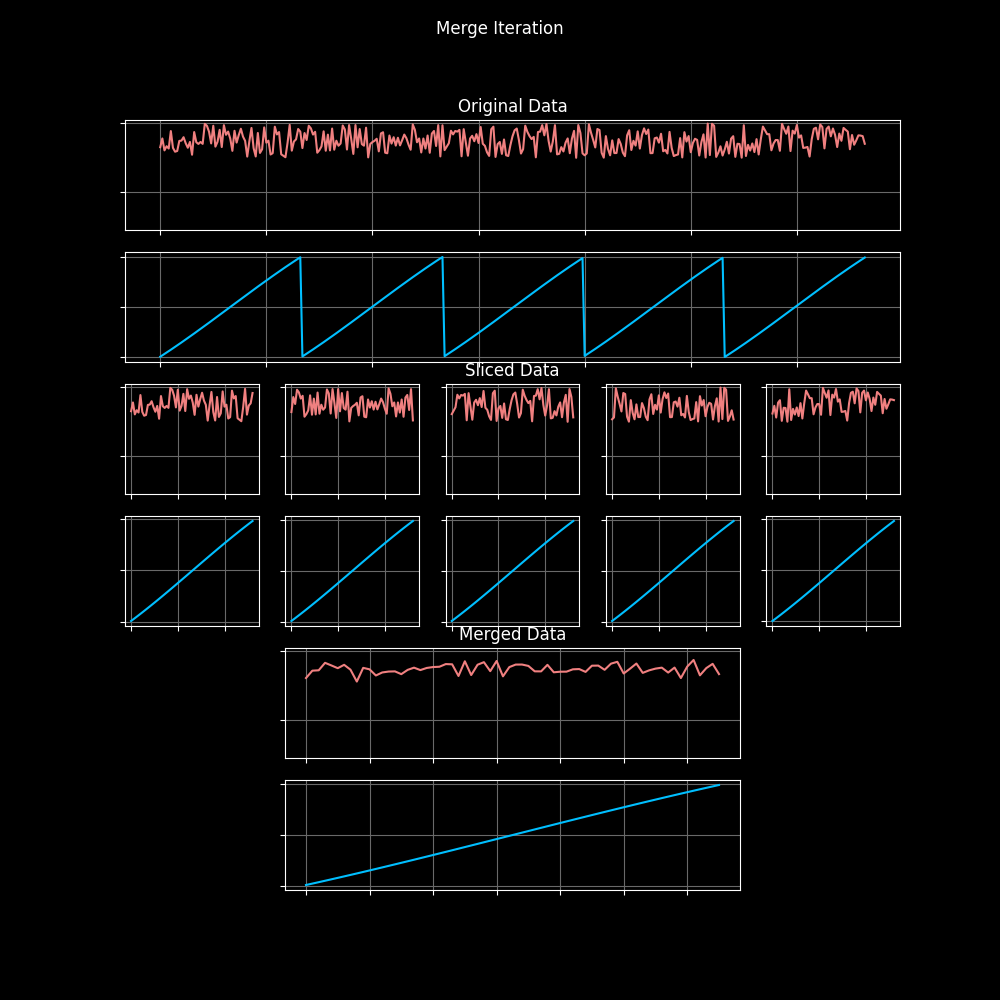
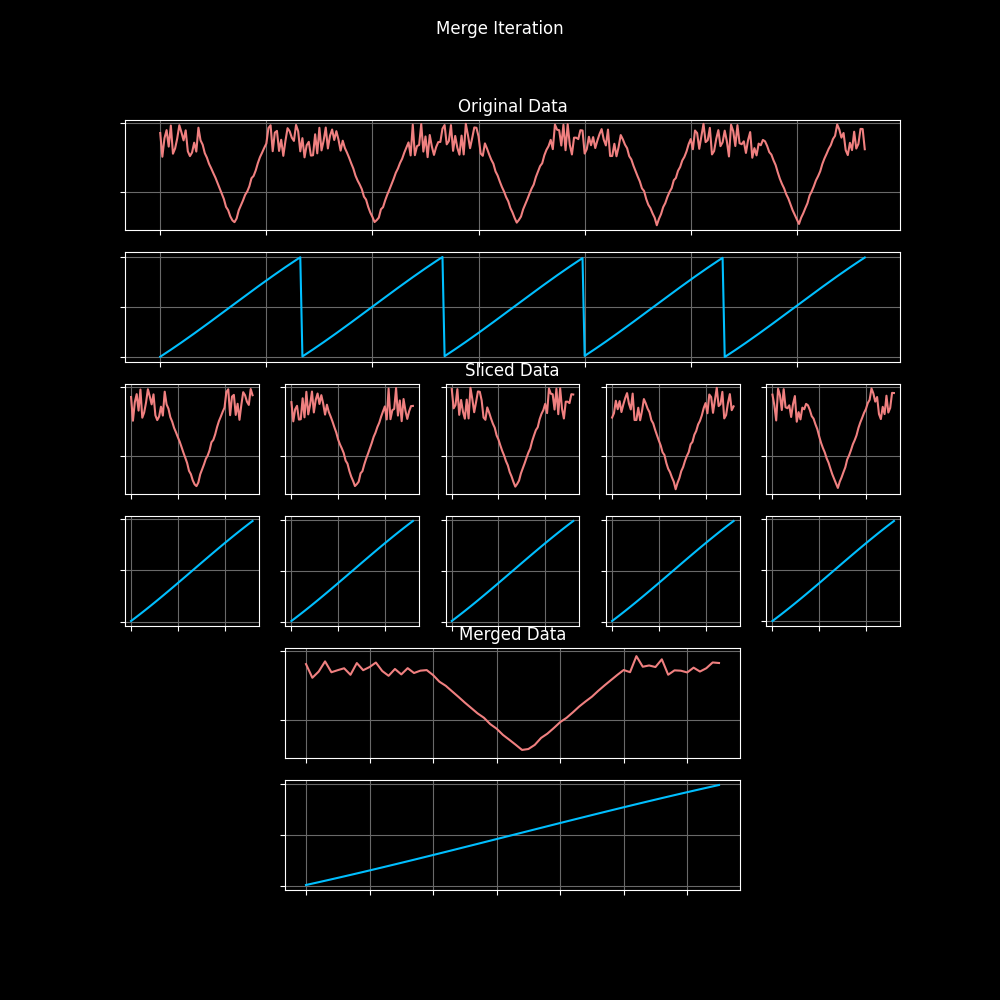
update readme

diff --git a/data_processor.py b/data_processor.py
@@ -11,8 +11,8 @@ import os
 def process_data(path):
 
     # Single data load
-    nmr = np.loadtxt(path + "159938_nmr.txt")
-    lf = np.loadtxt(path + "159938_lf.txt")
+    nmr = np.loadtxt(path + "159947_nmr.txt")
+    lf = np.loadtxt(path + "159947_lf.txt")
 
     # Merge data from single iteration
     merge_iteration(nmr, lf)
@@ -66,6 +66,7 @@ def merge_iteration(NMR_signal, LF_signal):
     print(np.shape(LF_merged))
 
 
+# TODO make a loop to reduce code length in sliced plots
 def plot_merge_iteration(NMR_signal, NMR_slices, NMR_merged, LF_signal, LF_slices, LF_merged):
     
     # Define number of slices
@@ -92,7 +93,6 @@ def plot_merge_iteration(NMR_signal, NMR_slices, NMR_merged, LF_signal, LF_slice
     ax1.set_xticklabels([])
     ax1.set_yticklabels([])
 
-    
     # Data Slices
     ax4 = fig.add_subplot(gs[2,0])
     ax4.plot(NMR_slices[0,:], color='lightcoral')
@@ -151,20 +151,6 @@ def plot_merge_iteration(NMR_signal, NMR_slices, NMR_merged, LF_signal, LF_slice
     ax13.grid(color='dimgrey')
     ax13.set_xticklabels([])
     ax13.set_yticklabels([])
-    # for slice in range(slices):
-    #     ax[slice]
-    # x0 = 0
-    # for slice in range(slices):
-    #     num = slice + 2
-    #     x{num} = fig.add_subplot(gs[2,slice])
-        
-
-    # ax2.plot(time, LF_signal, color='deepskyblue')
-    # ax2.set_title("LF Signal")
-    # ax2.grid(color='dimgrey')
-    # ax2.set_xticklabels([])
-    # ax2.set_yticklabels([])
-    # ax2.set_xlim((0, 5/28))
 
     # Merged Data
     ax2 = fig.add_subplot(gs[4,1:-1])
@@ -180,20 +166,13 @@ def plot_merge_iteration(NMR_signal, NMR_slices, NMR_merged, LF_signal, LF_slice
     ax3.set_xticklabels([])
     ax3.set_yticklabels([])
 
-    # ax2.plot(time, LF_signal, color='deepskyblue')
-    # ax2.set_title("LF Signal")
-    # ax2.grid(color='dimgrey')
-    # ax2.set_xticklabels([])
-    # ax2.set_yticklabels([])
-    # ax2.set_xlim((0, 5/28))
-
     # Save and close plot
     plt.savefig(f"figures/merge_iteration.png")
     plt.close()
 
 
 if __name__ == '__main__':
-    path = 'data/unprocessed_nmr_data/Material_1/'
+    path = 'data/unprocessed_nmr_data/Material_5/'
     directory = os.fsencode(path)
 
     process_data(path)

diff --git a/README.md b/README.md
@@ -26,4 +26,15 @@ From here, the signals are trimmed to only include the highlighted regions. The 
 
 ## Data Processing
 
+THe data processing step is broken down into 2 substeps: merge iteration and iteration combination.
+
+### Merge Iteration
+
+Merge iteration, as pictured below, is the process of using data collected from a common setting, and merging it to reduce noise from the data colection. The data was slices and saved as a single stream. This stream is resliced, and then the values averaged to smooth out errors.
+
+<img src="https://github.com/cgrundman/NMR-Signal/blob/master/figures/merged_iteration.png" />
+
+### Iteration Combination
+
+
 ## Pattern Recognition
